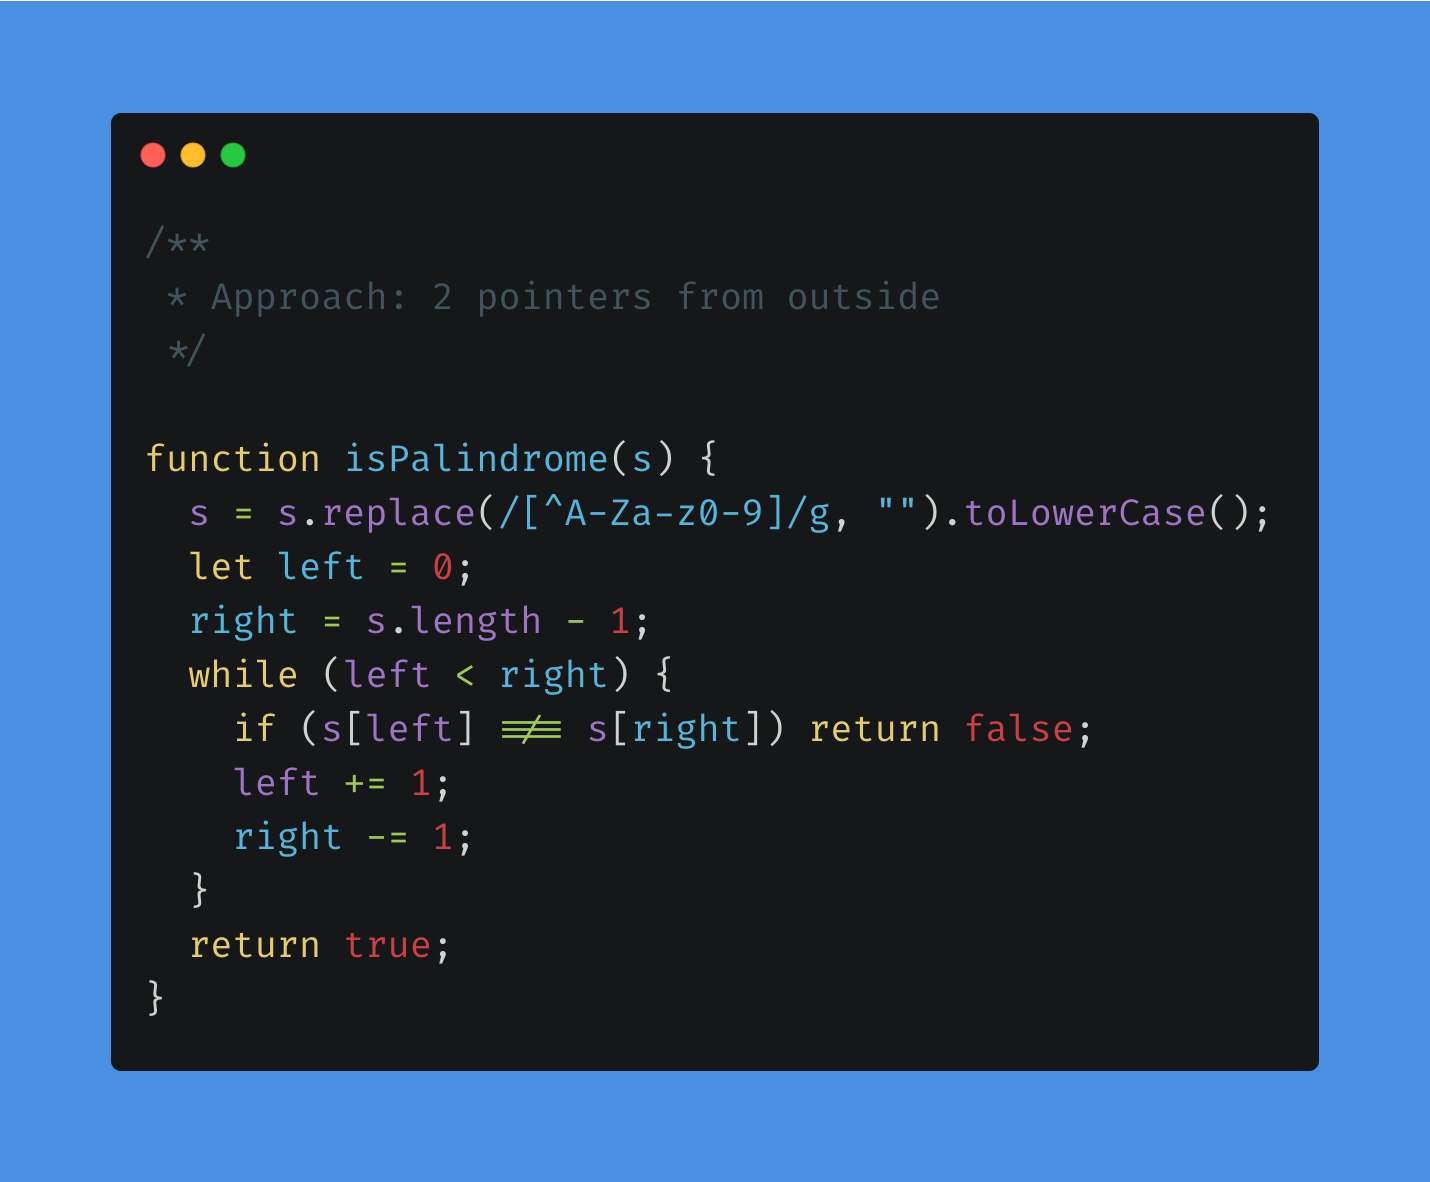
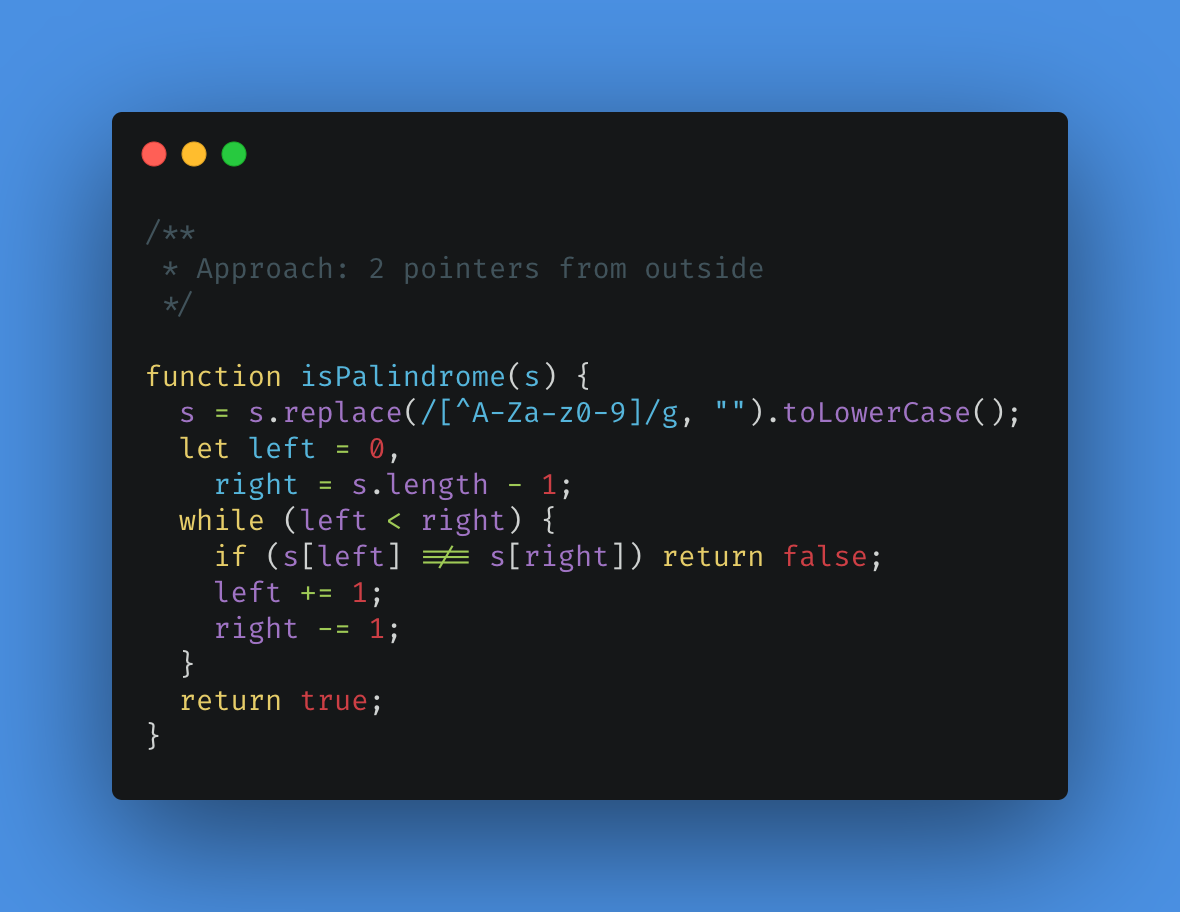
fix bug

Changed region(s): [[0.0305, 0.0921, 0.9763, 1.0], [0.4881, 0.2456, 0.6712, 0.307], [0.3356, 0.2456, 0.4576, 0.307]]

diff --git a/101-leetcode/011/solution.js b/101-leetcode/011/solution.js
@@ -45,8 +45,8 @@ console.log("\n================================\n");
 
   function isPalindrome(s) {
     s = s.replace(/[^A-Za-z0-9]/g, "").toLowerCase();
-    let left = 0;
-    right = s.length - 1;
+    let left = 0,
+      right = s.length - 1;
     while (left < right) {
       if (s[left] !== s[right]) return false;
       left += 1;

diff --git a/101-leetcode/011/carbon/002.js b/101-leetcode/011/carbon/002.js
@@ -4,8 +4,8 @@
 
 function isPalindrome(s) {
   s = s.replace(/[^A-Za-z0-9]/g, "").toLowerCase();
-  let left = 0;
-  right = s.length - 1;
+  let left = 0,
+    right = s.length - 1;
   while (left < right) {
     if (s[left] !== s[right]) return false;
     left += 1;
